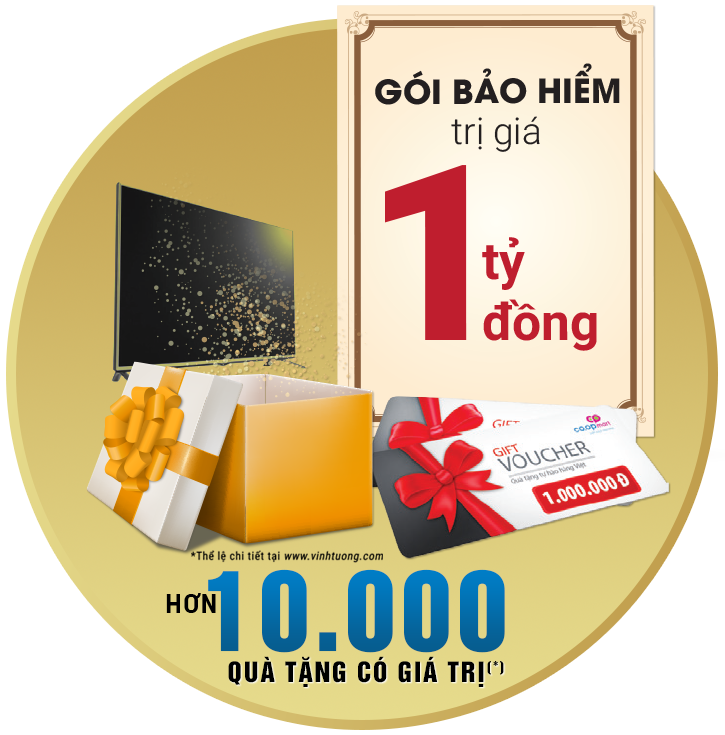
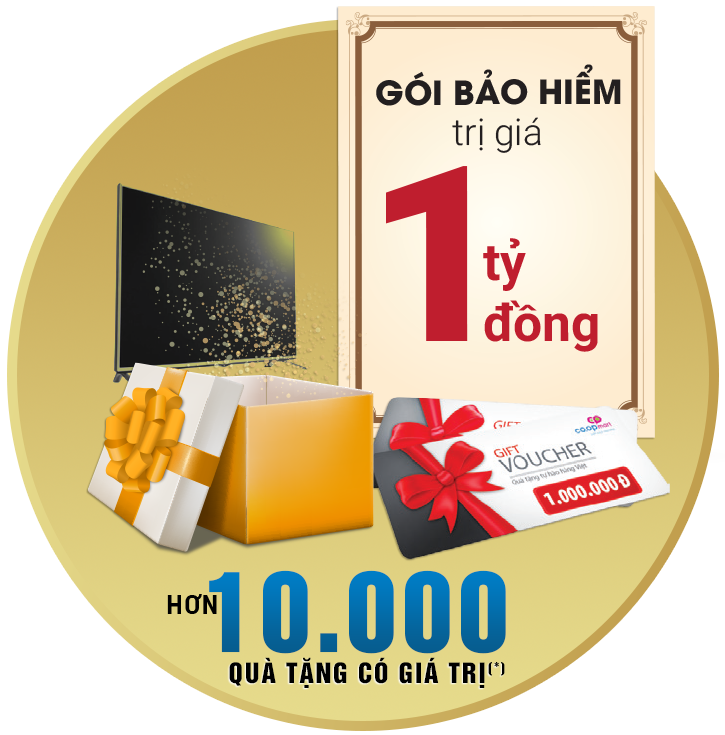
Update Index

diff --git a/vinhtuong/index.html b/vinhtuong/index.html
@@ -71,6 +71,7 @@
                     <div class="col-lg-7 col-md-7 col-sm-6">
                         <div class="slide-img hidden-sm hidden-xs wow fadeInLeft"><img src="img/people.png"></div>
                         <div class="slide-img visible-sm visible-xs text-center wow fadeInLeft"><img src="img/people-2.png"></div>
+                        <p class="text-center wow fadeInLeft"><a href="https://www.vinhtuong.com/tu-van-tan-nha-trao-qua-tan-tay">*Thể lệ chi tiết tại www.vinhtuong.com</a></p>
                     </div>
                     <div class="col-lg-5 col-md-5 col-sm-6">
                         <div class="wow fadeInRight" id="slideRight">
@@ -423,6 +424,7 @@
             </div>
         </div>
     </div>
+    <div style="clear:both;"></div>
     <div id="footer">
         <div class="container wow fadeInUp">
             <div class="row">
